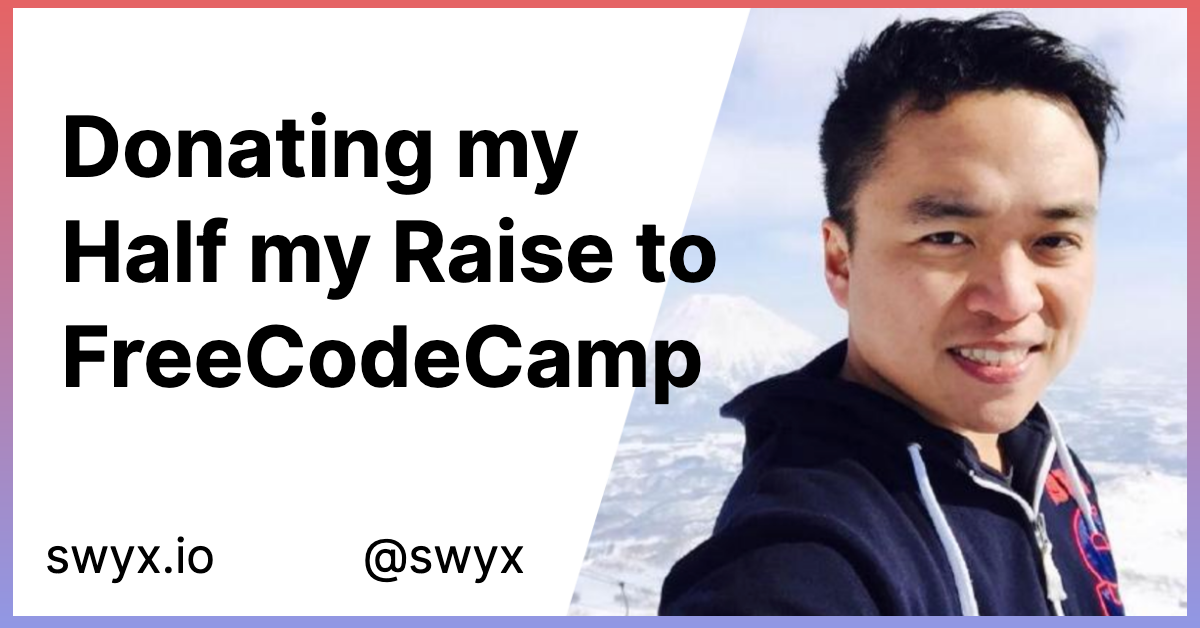
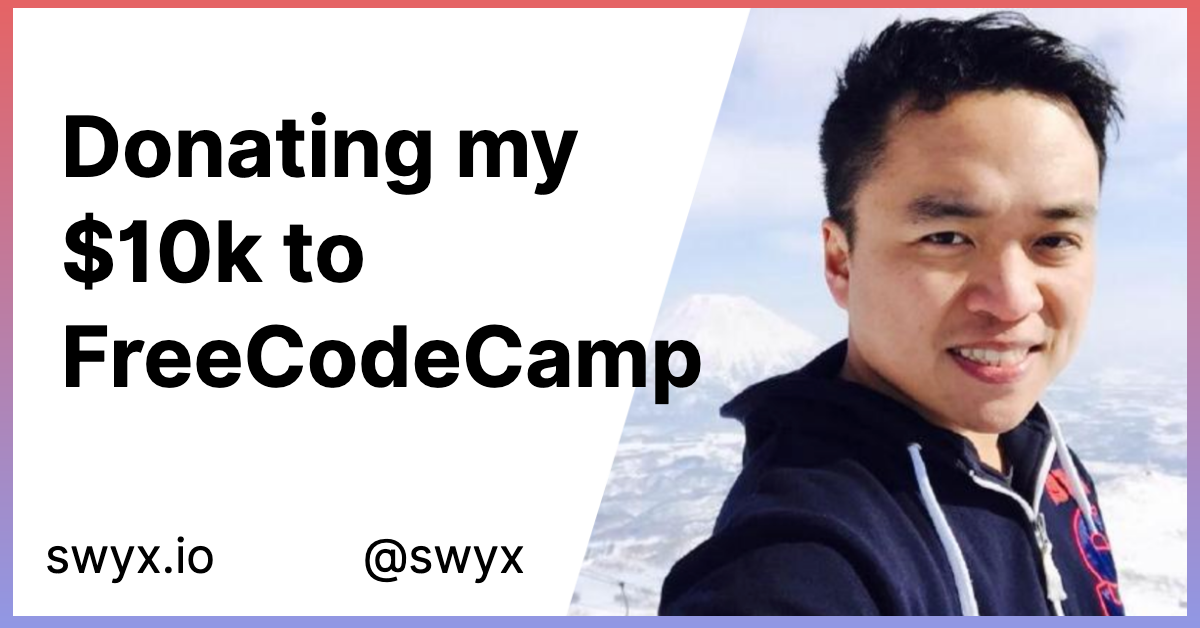
fix fcc post

Changed region(s): [[0.0308, 0.3328, 0.6167, 0.4841]]

diff --git a/content/writing/nontechnical/donating-to-freecodecamp.md b/content/writing/nontechnical/donating-to-freecodecamp.md
@@ -1,5 +1,5 @@
 ---
-title: Donating my Half my Raise to FreeCodeCamp
+title: Donating my $10k to FreeCodeCamp
 slug: donating-to-freecodecamp
 description: I benefited from FreeCodeCamp and would like to give back
 categories: ['Tech']
@@ -8,15 +8,15 @@ date: 2019-10-20
 
 I'm not a big donor to nonprofit organizations. I spent some early years seeing how they work from the inside and came away with a deep distaste for their general lack of accountability. Often it is spent on fundraising and personal perks. Nonprofits do not have a monopoly on doing good; for-profits not only create jobs, pay taxes and fill a need for customers, but also have market forces (imperfectly) driving them to stay efficient.
 
-I'm frankly just not a big donor, period. 2-3 disastrous financial decisions from me and my parents during college years left my family around \$500k in debt at peak. I'm the primary earner now that both are involuntarily retired. pretty much every thing i have saved in the 10 years since is going towards paying that shit down.
+I'm frankly just not a big donor, period. 2-3 disastrous financial decisions from me and my parents during college years left my family around $500k in debt at peak. I'm the primary earner now that both are involuntarily retired. pretty much every thing i have saved in the 10 years since is going towards paying that shit down.
 
 But I also care a lot about impact - is my dollar going to someone that really needs it - and the relationship I have to the cause.
 
-On these two counts, FreeCodeCamp comes up tops. Quincy and team have proven themselves to do a lot with very little. But recent outages have forced Quincy to [draw attention to their \$300k budget](https://www.freecodecamp.org/news/freecodecamp-servers-update-october-2019/). To be clear, they also get a lot of free services from companies. But they could definitely use more cash. Quincy
+On these two counts, FreeCodeCamp comes up tops. Quincy and team have proven themselves to do a lot with very little. But recent outages have forced Quincy to [draw attention to their $300k budget](https://www.freecodecamp.org/news/freecodecamp-servers-update-october-2019/). To be clear, they also get a lot of free services from companies. But they could definitely use more cash. Quincy
 
 I also care a lot about keeping quality coding education free. When I decided to explore learning to code, I wasn't sure if I was cut out for it. So I kept my day job, and [just did something on freecodecamp every day for 6 months](https://www.freecodecamp.org/forum/t/no-zero-days-my-roadmap-from-javascript-noob-to-full-stack-developer-in-12-months/164514). It was a struggle, but completing FCC was what gave me the confidence that this was actually something I could do and was worth quitting my job and investing actual money in. My story isn't even special - at least I had a job to keep me going. Others have less.
 
-I got a \$20k raise this year thanks to Sarah fighting for me (I took a sizable pay cut in coming to Netlify, but also my "market value" likely has risen in the past year). In line with [Effective Altruism](https://en.wikipedia.org/wiki/Effective_altruism), I have been looking for effective ways to spread this good fortune. I sent some money to ConcatenateConf, but I also had plenty of bad ideas - sponsoring people to JAMstackconf, buying Eggheadio memberships for random people. Doing this kind of thing triggers the economist in me. It is a fair question whether concentrated charity to a lucky few is more effective than diffused charity to a general cause.
+I got a $20k raise this year thanks to Sarah fighting for me (I took a sizable pay cut in coming to Netlify, but also my "market value" likely has risen in the past year). In line with [Effective Altruism](https://en.wikipedia.org/wiki/Effective_altruism), I have been looking for effective ways to spread this good fortune. I sent some money to ConcatenateConf, but I also had plenty of bad ideas - sponsoring people to JAMstackconf, buying Eggheadio memberships for random people. Doing this kind of thing triggers the economist in me. It is a fair question whether concentrated charity to a lucky few is more effective than diffused charity to a general cause.
 
 Supporting FCC isn't just about [the learning platform](https://learn.freecodecamp.org/). It's also [the publication](https://www.freecodecamp.org/news/) and the [Youtube Channel](https://youtube.com/freecodecamp). This has a massive audience in India:
 
